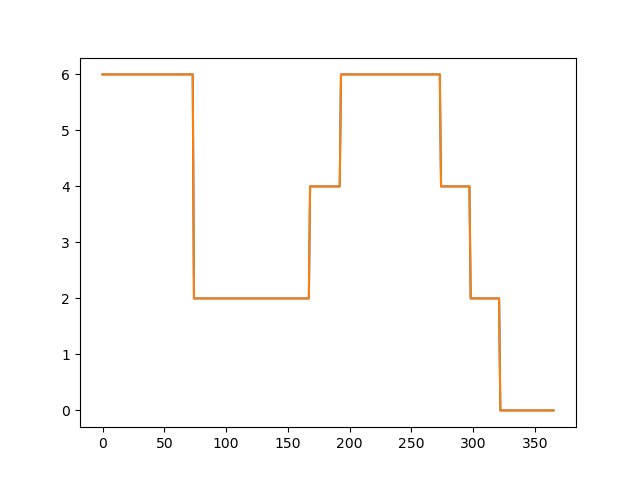
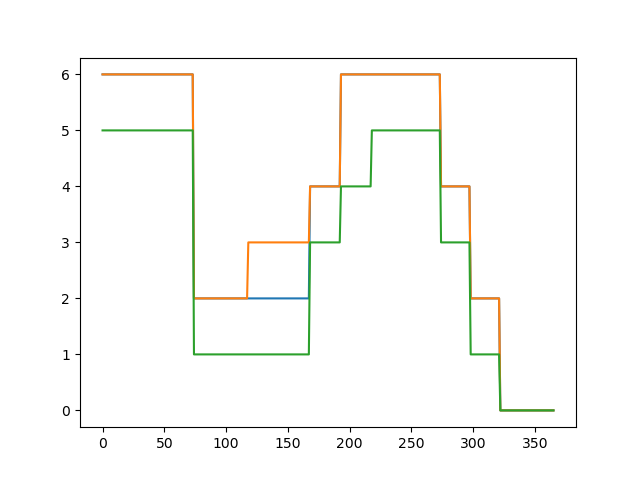
.

diff --git a/assignment2/main.py b/assignment2/main.py
@@ -281,8 +281,10 @@ _, semi_drag1 = semi_adjust(filter_pitch1)
 
 # test if transposition invariant
 frIsequence1_trans = np.copy(frIsequence1)
+shift = 3
 for i in range(0, frame_num1):
-    frIsequence1_trans[0,i] = 1.5 * frIsequence1[0,i]
+    # f2 = f1 * (2 ^ (1 / 12)) ^ n
+    frIsequence1_trans[0,i] = frIsequence1[0,i] * 2**(shift/12)
 filter_pitch1_trans, _ = filter_pitch(frIsequence1_trans)
 _, semi_drag1_trans = semi_adjust(filter_pitch1_trans)
 print(semi_drag1_trans,'trans semi')
